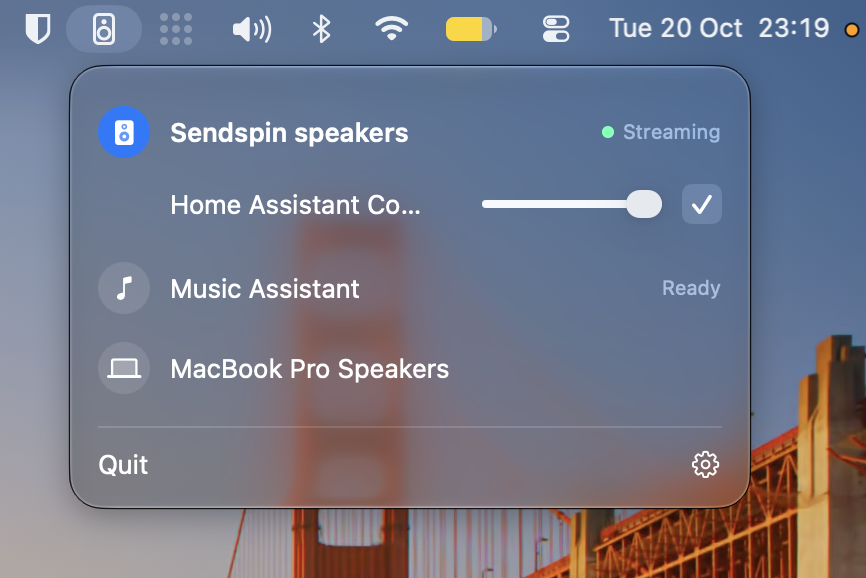
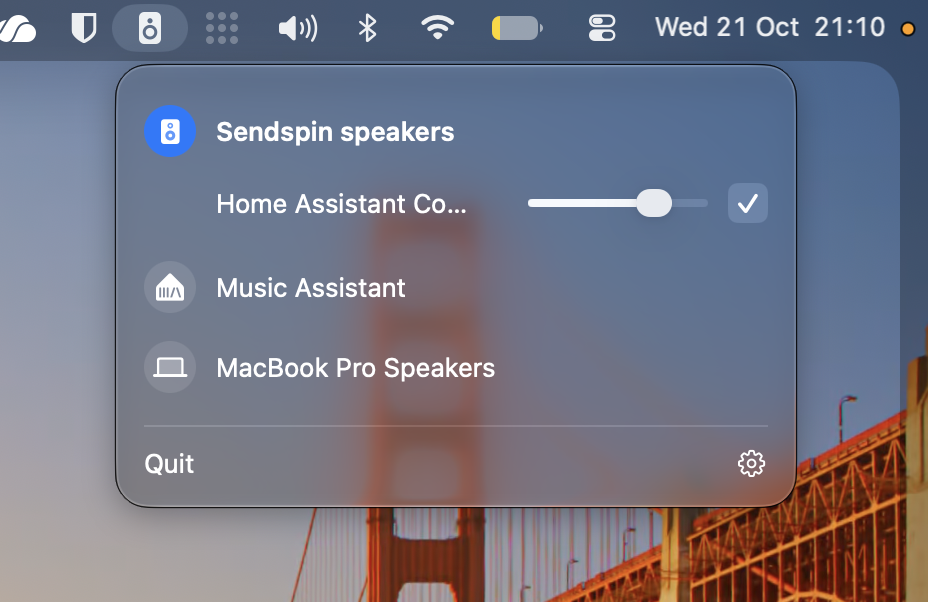
README: screenshot of the 0.5.0 menu
The menu while playing, with the filled menu bar icon and Music
Assistant's logo; the old one still showed Streaming.

Claude-Session: https://claude.ai/code/session_01PsMLZ6x3GjDTd4YTHD2NKz

diff --git a/README.md b/README.md
@@ -12,7 +12,7 @@ bit-perfect playback is finally possible on your Mac.
 macOS Audio for Sendspin adds an output device named **Sendspin**, plus a menu bar app to
 choose speakers and control their volume:
 
-<img src="docs/menu.png" width="433" alt="The speaker icon in the menu bar, with its menu open: Sendspin speakers chosen and streaming, with a Home Assistant Connect AUX-2 ticked beneath it with its volume slider; then Music Assistant, ready, and the MacBook Pro Speakers.">
+<img src="docs/menu.png" width="464" alt="The speaker icon in the menu bar, filled while the Mac plays, with its menu open: Sendspin speakers chosen, with a Home Assistant Connect AUX-2 ticked beneath it with its volume slider; then Music Assistant and the MacBook Pro Speakers.">
 
 > Sendspin is a protocol of the Open Home Foundation;
 > this project is not affiliated with or endorsed by it.
